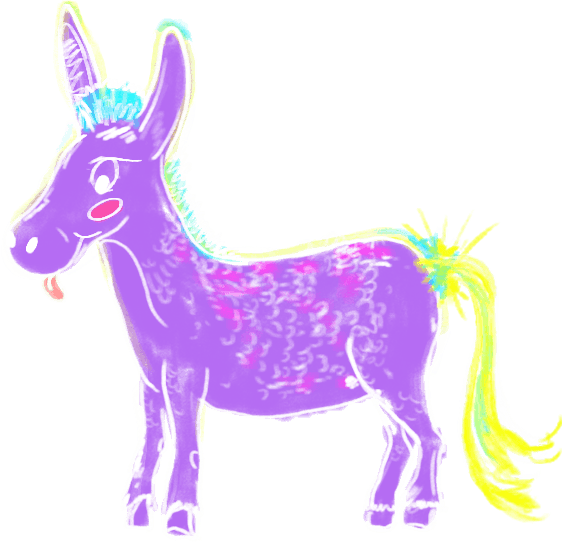
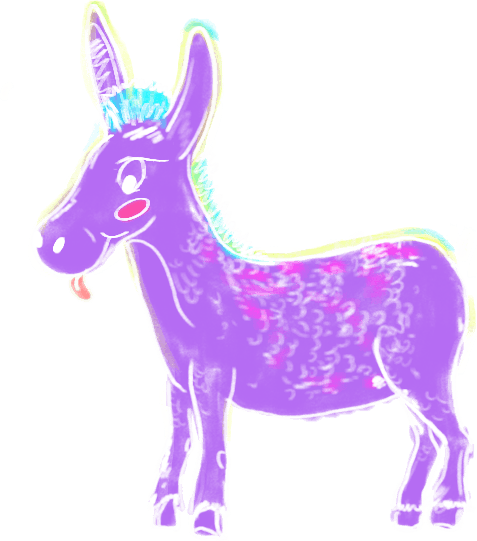
Adding new Paz donkeyWin image and removing click event

diff --git a/js/global.js b/js/global.js
@@ -172,7 +172,7 @@ var burroFID2015 = burroFID2015 || {};
         music.pause();
         donkey.style.backgroundImage = donkeyBgImgSrc;
         
-        console.log('se envio ' + vars.timer + ' segundos');
+        //console.log('se envio ' + vars.timer + ' segundos');
         sendStats(winStats, vars.timer, skin);
     }
 
@@ -494,10 +494,10 @@ var burroFID2015 = burroFID2015 || {};
 
         var endGameView = document.getElementById("endGameView");
         endGameView.addEventListener("touchend", resetGame, false);
-        endGameView.addEventListener("click", resetGame, false);
+        // endGameView.addEventListener("click", resetGame, false);
 
         vars.standByView.addEventListener("touchend", hideStandByScreen, false);
-        vars.standByView.addEventListener("click", hideStandByScreen, false);
+        // vars.standByView.addEventListener("click", hideStandByScreen, false);
 
         // Start Donkey movement animation
         setInterval(animateElements, 20);
